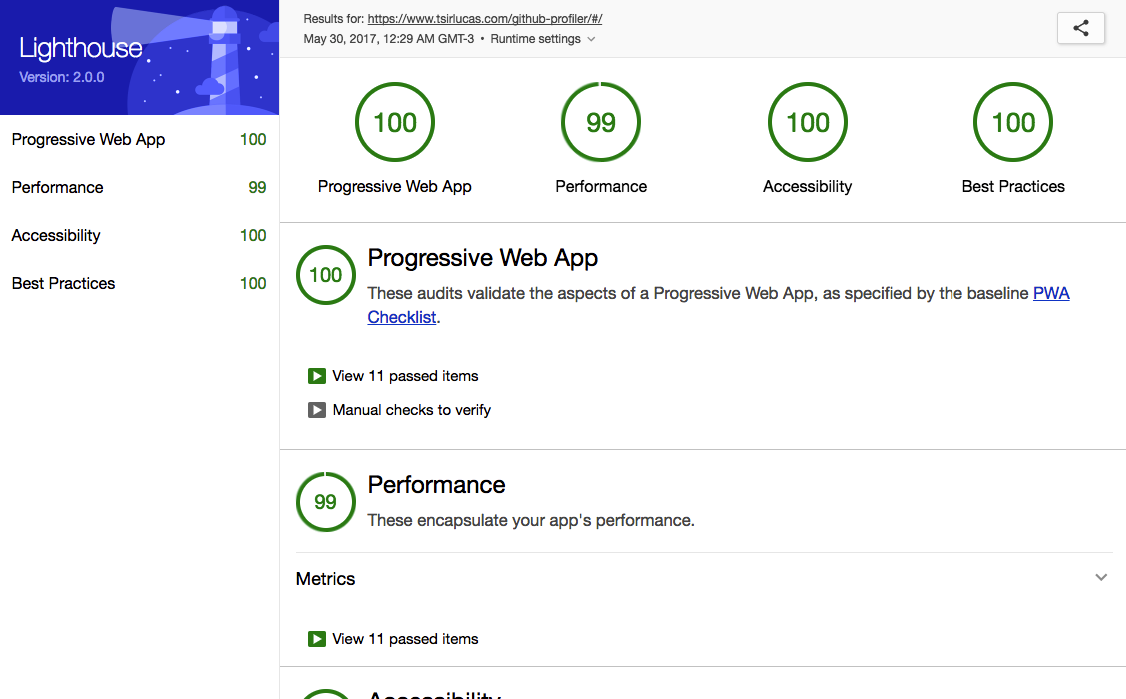
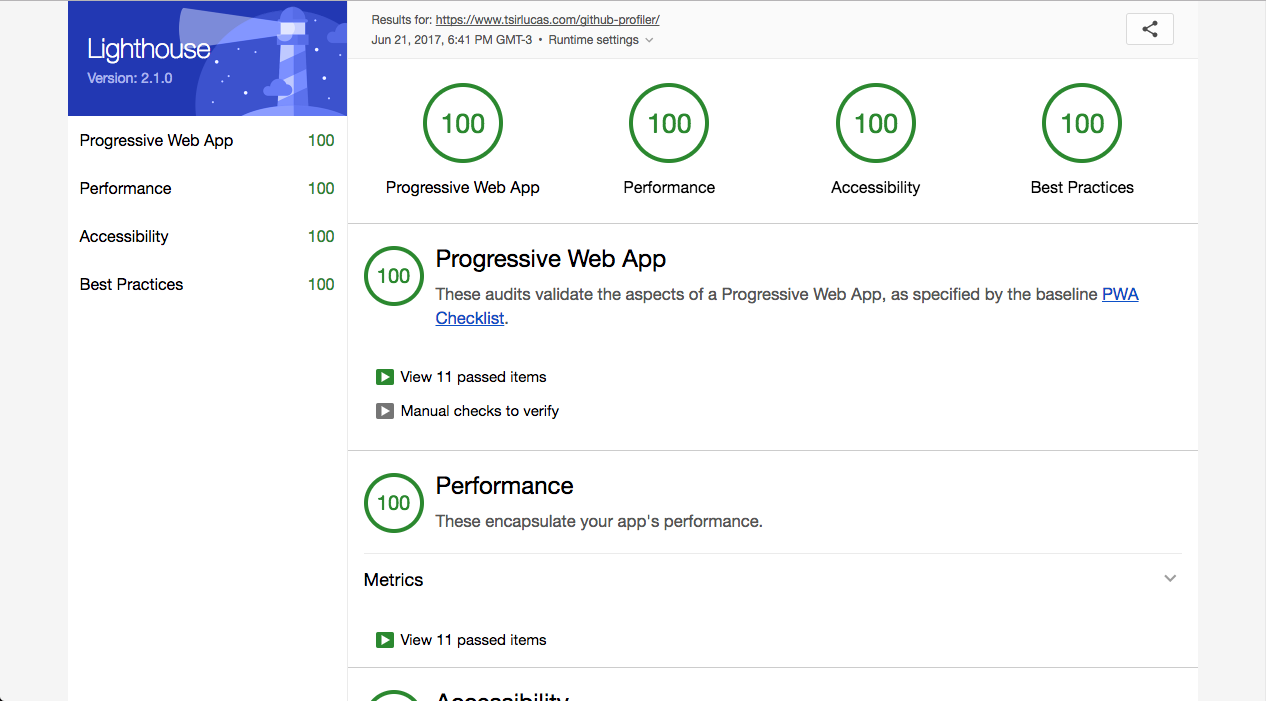
Updating webpack and lighthouse score

diff --git a/webpack.production.config.babel.js b/webpack.production.config.babel.js
@@ -42,6 +42,7 @@ const config = {
 		new webpack.DefinePlugin({
 			'process.env.NODE_ENV': JSON.stringify('production')
 		}),
+		new webpack.optimize.ModuleConcatenationPlugin(),
 		new webpack.optimize.UglifyJsPlugin({
 			output: {
 				comments: 0
